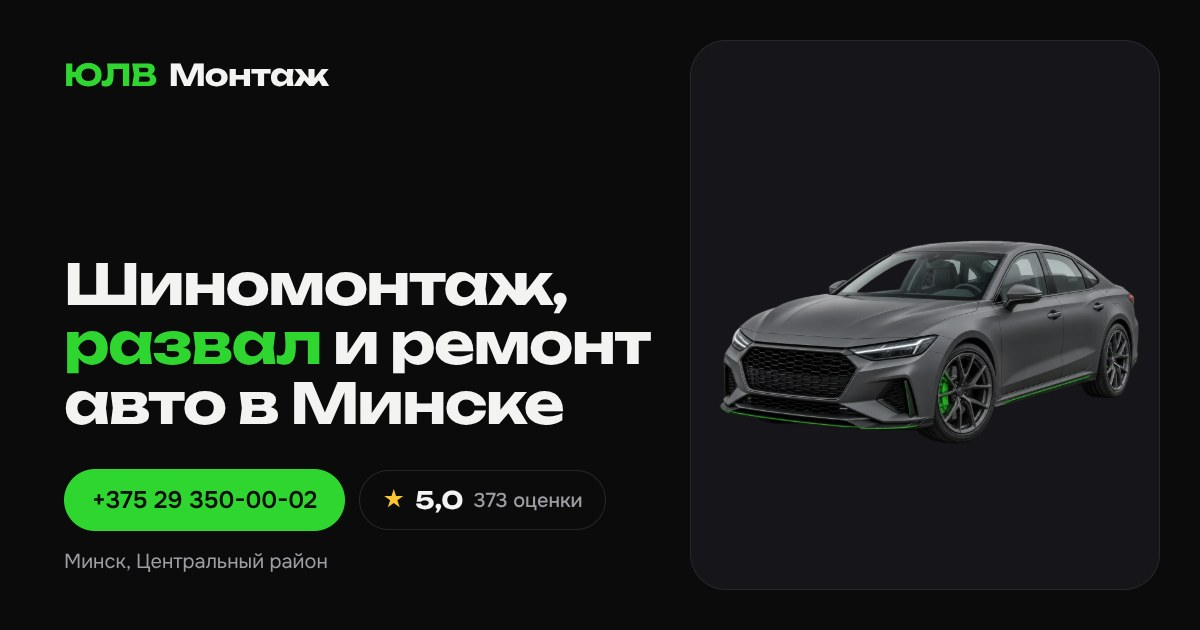
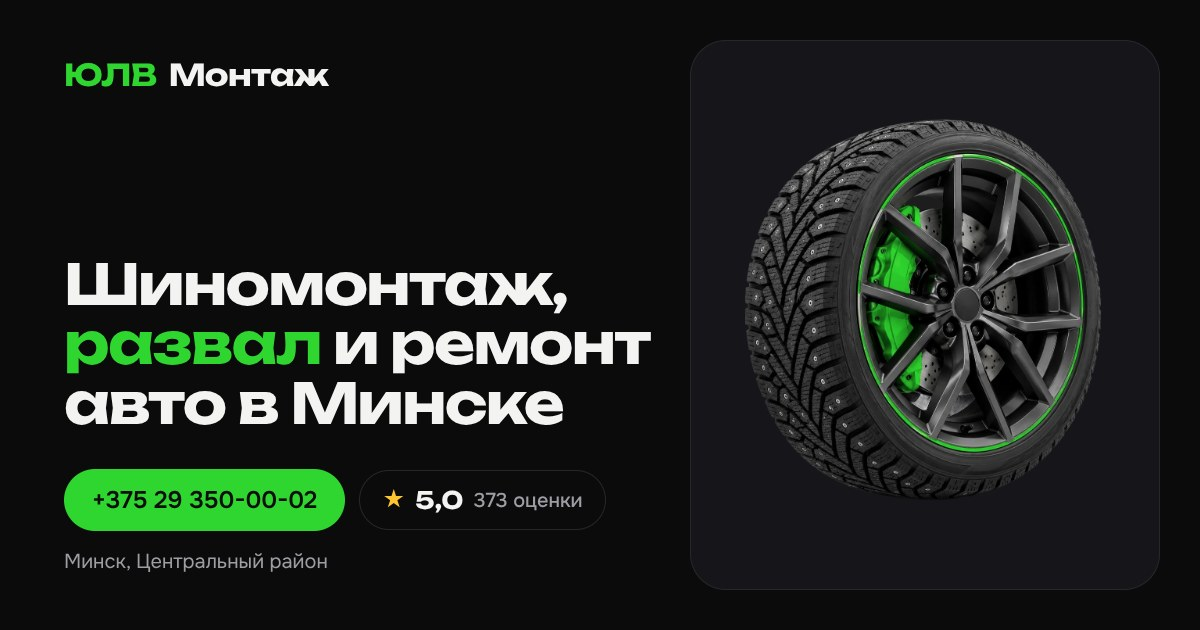
ЮЛВМонтаж: колесо на первом экране; hero-wheel в библиотеку
Claude-Session: https://claude.ai/code/session_01K6Qwn87xXGdXrTQB6SY52W

Changed region(s): [[0.5858, 0.181, 0.9558, 0.7841]]

diff --git a/tablica/index.html b/tablica/index.html
@@ -36,17 +36,17 @@ dl{display:flex;flex-wrap:wrap;gap:6px 18px;font-size:13px}dt{color:var(--mut);f
 .nt{font-size:13px;color:var(--mut);border-top:1px dashed var(--line);padding-top:10px}
 @media(max-width:760px){.kpi{grid-template-columns:repeat(2,1fr)}.grid{grid-template-columns:1fr}h1{font-size:26px}}
 </style></head><body><div class="w">
-<div class="top"><div><h1>Мои клиенты</h1><p>Сайты для автосервисов · обновлено 24 октября в 23:43</p></div></div>
+<div class="top"><div><h1>Мои клиенты</h1><p>Сайты для автосервисов · обновлено 24 октября в 23:46</p></div></div>
 <div class="kpi">
-<div class="k"><b>11</b><span>всего сервисов</span></div>
-<div class="k"><b>10</b><span>демо ждут звонка</span></div>
+<div class="k"><b>10</b><span>всего сервисов</span></div>
+<div class="k"><b>9</b><span>демо ждут звонка</span></div>
 <div class="k"><b>0</b><span>в переговорах</span></div>
 <div class="k g"><b>0</b><span>оплатили</span></div>
 </div>
 <h2>Что сделать</h2>
-<ul class="todo"><li data-s="кандидат" data-last="" data-created="2026-10-23"><span class="dot" style="background:#8a8a8a"></span><div><b>Sto Pirali</b> <span class="st st-0">кандидат</span><p>мало данных — нет цен, услуг, часов; 4 слабых фото, 26 отзывов</p></div><em class="age"></em></li><li data-s="демо готово" data-last="" data-created="2026-10-23"><span class="dot" style="background:#1E6BFF"></span><div><b>Автозвено</b> <span class="st st-1">демо готово</span><p>позвонить; попросить фото до/после</p></div><em class="age"></em></li><li data-s="демо готово" data-last="" data-created="2026-10-23"><span class="dot" style="background:#FFC400"></span><div><b>АвтоСервисМастер</b> <span class="st st-1">демо готово</span><p>позвонить; попросить фото и цены</p></div><em class="age"></em></li><li data-s="демо готово" data-last="" data-created="2026-10-24"><span class="dot" style="background:#1F55D6"></span><div><b>АльфаМагнит</b> <span class="st st-1">демо готово</span><p>позвонить; спросить ссылку на Telegram и Instagram, логотип, цены</p></div><em class="age"></em></li><li data-s="демо готово" data-last="" data-created="2026-10-24"><span class="dot" style="background:#c6f135"></span><div><b>Ганс Моторс</b> <span class="st st-1">демо готово</span><p>позвонить; уточнить часы работы</p></div><em class="age"></em></li><li data-s="демо готово" data-last="" data-created="2026-10-24"><span class="dot" style="background:#FF7A00"></span><div><b>Мой Механик</b> <span class="st st-1">демо готово</span><p>позвонить; уточнить цвет логотипа, гарантию, фото, отзывы с Яндекса</p></div><em class="age"></em></li><li data-s="демо готово" data-last="" data-created="2026-10-24"><span class="dot" style="background:#F5C800"></span><div><b>СТО на Старовиленской</b> <span class="st st-1">демо готово</span><p>позвонить; уточнить название сервиса, Viber/Telegram, оплату картой, гарантию</p></div><em class="age"></em></li><li data-s="демо готово" data-last="" data-created="2026-10-24"><span class="dot" style="background:#E10600"></span><div><b>СТО-777</b> <span class="st st-1">демо готово</span><p>позвонить; спросить часы работы, фото (9 в карточке), цены на шиномонтаж и диагностику, условия гарантии</p></div><em class="age"></em></li><li data-s="демо готово" data-last="" data-created="2026-10-23"><span class="dot" style="background:#E10600"></span><div><b>ЦТС-СЕРВИС</b> <span class="st st-1">демо готово</span><p>позвонить; спросить ссылку на карточку, мессенджеры, гарантию, фото</p></div><em class="age"></em></li><li data-s="демо готово" data-last="" data-created="2026-10-24"><span class="dot" style="background:#2FD62F"></span><div><b>ЮЛВМонтаж</b> <span class="st st-1">демо готово</span><p>позвонить; уточнить адрес (улица, дом), цены, фото, мессенджеры, гарантию</p></div><em class="age"></em></li><li data-s="демо готово" data-last="" data-created="2026-10-23"><span class="dot" style="background:#E10600"></span><div><b>GTgarage</b> <span class="st st-1">демо готово</span><p>позвонить; спросить мессенджеры и логотип</p></div><em class="age"></em></li></ul>
+<ul class="todo"><li data-s="кандидат" data-last="" data-created="2026-10-23"><span class="dot" style="background:#8a8a8a"></span><div><b>Sto Pirali</b> <span class="st st-0">кандидат</span><p>мало данных — нет цен, услуг, часов; 4 слабых фото, 26 отзывов</p></div><em class="age"></em></li><li data-s="демо готово" data-last="" data-created="2026-10-23"><span class="dot" style="background:#1E6BFF"></span><div><b>Автозвено</b> <span class="st st-1">демо готово</span><p>позвонить; попросить фото до/после</p></div><em class="age"></em></li><li data-s="демо готово" data-last="" data-created="2026-10-23"><span class="dot" style="background:#FFC400"></span><div><b>АвтоСервисМастер</b> <span class="st st-1">демо готово</span><p>позвонить; попросить фото и цены</p></div><em class="age"></em></li><li data-s="демо готово" data-last="" data-created="2026-10-24"><span class="dot" style="background:#1F55D6"></span><div><b>АльфаМагнит</b> <span class="st st-1">демо готово</span><p>позвонить; спросить ссылку на Telegram и Instagram, логотип, цены</p></div><em class="age"></em></li><li data-s="демо готово" data-last="" data-created="2026-10-24"><span class="dot" style="background:#c6f135"></span><div><b>Ганс Моторс</b> <span class="st st-1">демо готово</span><p>позвонить; уточнить часы работы</p></div><em class="age"></em></li><li data-s="демо готово" data-last="" data-created="2026-10-24"><span class="dot" style="background:#FF7A00"></span><div><b>Мой Механик</b> <span class="st st-1">демо готово</span><p>позвонить; уточнить цвет логотипа, гарантию, фото, отзывы с Яндекса</p></div><em class="age"></em></li><li data-s="демо готово" data-last="" data-created="2026-10-24"><span class="dot" style="background:#F5C800"></span><div><b>СТО на Старовиленской</b> <span class="st st-1">демо готово</span><p>позвонить; уточнить название сервиса, Viber/Telegram, оплату картой, гарантию</p></div><em class="age"></em></li><li data-s="демо готово" data-last="" data-created="2026-10-23"><span class="dot" style="background:#E10600"></span><div><b>ЦТС-СЕРВИС</b> <span class="st st-1">демо готово</span><p>позвонить; спросить ссылку на карточку, мессенджеры, гарантию, фото</p></div><em class="age"></em></li><li data-s="демо готово" data-last="" data-created="2026-10-24"><span class="dot" style="background:#2FD62F"></span><div><b>ЮЛВМонтаж</b> <span class="st st-1">демо готово</span><p>позвонить; уточнить адрес (улица, дом), цены, фото, мессенджеры, гарантию</p></div><em class="age"></em></li><li data-s="демо готово" data-last="" data-created="2026-10-23"><span class="dot" style="background:#E10600"></span><div><b>GTgarage</b> <span class="st st-1">демо готово</span><p>позвонить; спросить мессенджеры и логотип</p></div><em class="age"></em></li></ul>
 <h2>Этапы</h2>
-<div class="fun"><button type="button" class="fs" data-f="кандидат"><i>1</i><span>кандидат</span><b>1</b></button><button type="button" class="fs" data-f="демо готово"><i>2</i><span>демо готово</span><b>10</b></button><button type="button" class="fs z" data-f="позвонил"><i>3</i><span>позвонил</span><b>0</b></button><button type="button" class="fs z" data-f="скинул демо"><i>4</i><span>скинул демо</span><b>0</b></button><button type="button" class="fs z" data-f="думает"><i>5</i><span>думает</span><b>0</b></button><button type="button" class="fs z" data-f="правки"><i>6</i><span>правки</span><b>0</b></button><button type="button" class="fs z" data-f="оплатил"><i>7</i><span>оплатил</span><b>0</b></button><button type="button" class="fs z" data-f="запущен"><i>8</i><span>запущен</span><b>0</b></button></div><button type="button" class="all" hidden>Показать всех</button>
+<div class="fun"><button type="button" class="fs" data-f="кандидат"><i>1</i><span>кандидат</span><b>1</b></button><button type="button" class="fs" data-f="демо готово"><i>2</i><span>демо готово</span><b>9</b></button><button type="button" class="fs z" data-f="позвонил"><i>3</i><span>позвонил</span><b>0</b></button><button type="button" class="fs z" data-f="скинул демо"><i>4</i><span>скинул демо</span><b>0</b></button><button type="button" class="fs z" data-f="думает"><i>5</i><span>думает</span><b>0</b></button><button type="button" class="fs z" data-f="правки"><i>6</i><span>правки</span><b>0</b></button><button type="button" class="fs z" data-f="оплатил"><i>7</i><span>оплатил</span><b>0</b></button><button type="button" class="fs z" data-f="запущен"><i>8</i><span>запущен</span><b>0</b></button></div><button type="button" class="all" hidden>Показать всех</button>
 <h2 id="ct">Все клиенты</h2>
 <div class="grid">
 <article class="c" data-s="кандидат" style="--a:#8a8a8a">
@@ -111,15 +111,6 @@ dl{display:flex;flex-wrap:wrap;gap:6px 18px;font-size:13px}dt{color:var(--mut);f
   <div class="ln"><a href="https://d1trepes.github.io/sites/sto-starovilenskaya/" target="_blank" rel="noopener">Открыть демо ↗</a></div>
   <dl><div><dt>Создан</dt><dd>2026-10-24</dd></div><div><dt>Последний контакт</dt><dd data-d="">ещё не было</dd></div></dl>
   <p class="nt">своего названия в карточке нет — на сайте «СТО на Старовиленской»</p>
-</article>
-<article class="c" data-s="демо готово" style="--a:#E10600">
-  <header><span class="dot"></span><div><h3>СТО-777</h3><p>Долгиновский тракт, 45 · ★ 4,7 · 54 отз.</p></div><span class="st st-1">демо готово</span></header>
-  <div class="bar"><span class="on" title="кандидат"></span><span class="on" title="демо готово"></span><span class="" title="позвонил"></span><span class="" title="скинул демо"></span><span class="" title="думает"></span><span class="" title="правки"></span><span class="" title="оплатил"></span><span class="" title="запущен"></span></div>
-  <div class="nx"><small>Следующий шаг</small>позвонить; спросить часы работы, фото (9 в карточке), цены на шиномонтаж и диагностику, условия гарантии</div>
-  <div class="phs"><a class="ph" href="tel:+375296241200"><span>+375 29 624-12-00</span><small>A1</small></a></div>
-  <div class="ln"><a href="https://d1trepes.github.io/sites/sto-777/" target="_blank" rel="noopener">Открыть демо ↗</a></div>
-  <dl><div><dt>Создан</dt><dd>2026-10-24</dd></div><div><dt>Последний контакт</dt><dd data-d="">ещё не было</dd></div></dl>
-  <p class="nt">часов и цен нет — блоков цен и часов нет; фото не присланы</p>
 </article>
 <article class="c" data-s="демо готово" style="--a:#E10600">
   <header><span class="dot"></span><div><h3>ЦТС-СЕРВИС</h3><p>ул. Тимирязева, 9/6 · ★ 4,8 · 16 отз.</p></div><span class="st st-1">демо готово</span></header>

diff --git a/ulvmontazh/index.html b/ulvmontazh/index.html
@@ -14,11 +14,11 @@
 <meta property="og:url" content="https://d1trepes.github.io/sites/ulvmontazh/">
 <meta property="og:title" content="ЮЛВМонтаж — шиномонтаж и автосервис в Минске">
 <meta property="og:description" content="Шиномонтаж, развал-схождение, ремонт авто. Рейтинг 5,0 на Яндекс Картах.">
-<meta property="og:image" content="https://d1trepes.github.io/sites/ulvmontazh/img/og.jpg?v=0f245401">
+<meta property="og:image" content="https://d1trepes.github.io/sites/ulvmontazh/img/og.jpg?v=157f1f2f">
 <meta property="og:image:width" content="1200">
 <meta property="og:image:height" content="630">
 <meta name="twitter:card" content="summary_large_image">
-<link rel="preload" as="image" href="img/hero-sedan.webp" fetchpriority="high">
+<link rel="preload" as="image" href="img/hero-wheel.webp" fetchpriority="high">
 <link rel="preconnect" href="https://fonts.googleapis.com">
 <link rel="preconnect" href="https://fonts.gstatic.com" crossorigin>
 <link href="https://fonts.googleapis.com/css2?family=Onest:wght@400;500;600&family=Unbounded:wght@500;700&display=swap" rel="stylesheet">
@@ -30,7 +30,7 @@
   "@type": "AutoRepair",
   "name": "ЮЛВМонтаж",
   "url": "https://d1trepes.github.io/sites/ulvmontazh/",
-  "image": "https://d1trepes.github.io/sites/ulvmontazh/img/og.jpg?v=0f245401",
+  "image": "https://d1trepes.github.io/sites/ulvmontazh/img/og.jpg?v=157f1f2f",
   "telephone": "+375293500002",
   "address": {
     "@type": "PostalAddress",
@@ -96,7 +96,7 @@
       <div class="now rv" style="--d:0.25s" data-schedule='[{&quot;d&quot;:[1,2,3,4,5],&quot;from&quot;:9,&quot;to&quot;:20},{&quot;d&quot;:[6,7],&quot;from&quot;:9,&quot;to&quot;:17}]' hidden><i></i><span></span></div>
       <div class="trust rv" style="--d:0.3s"><b>5,0</b><div><span class="stars" aria-label="5 из 5"><svg viewBox="0 0 20 20" fill="currentColor" aria-hidden="true"><path d="M10 1.5l2.6 5.5 6 .7-4.5 4.1 1.2 5.9L10 14.8l-5.3 2.9 1.2-5.9L1.4 7.7l6-.7z"/></svg><svg viewBox="0 0 20 20" fill="currentColor" aria-hidden="true"><path d="M10 1.5l2.6 5.5 6 .7-4.5 4.1 1.2 5.9L10 14.8l-5.3 2.9 1.2-5.9L1.4 7.7l6-.7z"/></svg><svg viewBox="0 0 20 20" fill="currentColor" aria-hidden="true"><path d="M10 1.5l2.6 5.5 6 .7-4.5 4.1 1.2 5.9L10 14.8l-5.3 2.9 1.2-5.9L1.4 7.7l6-.7z"/></svg><svg viewBox="0 0 20 20" fill="currentColor" aria-hidden="true"><path d="M10 1.5l2.6 5.5 6 .7-4.5 4.1 1.2 5.9L10 14.8l-5.3 2.9 1.2-5.9L1.4 7.7l6-.7z"/></svg><svg viewBox="0 0 20 20" fill="currentColor" aria-hidden="true"><path d="M10 1.5l2.6 5.5 6 .7-4.5 4.1 1.2 5.9L10 14.8l-5.3 2.9 1.2-5.9L1.4 7.7l6-.7z"/></svg></span><span style="display:block;margin-top:4px">160 отзывов · 373 оценки на Яндекс Картах</span></div></div>
     </div>
-    <div class="car w rv" style="--d:0.15s"><img src="img/hero-sedan.webp" alt="Автомобиль — шиномонтаж и ремонт авто в ЮЛВМонтаж, Минск" fetchpriority="high"></div>
+    <div class="car m rv" style="--d:0.15s"><img src="img/hero-wheel.webp" alt="Колесо с зимней шиной — шиномонтаж ЮЛВМонтаж, Минск" fetchpriority="high"></div>
   </div>
 </section>
 <section id="blok" class="notitle" style="padding-top:0"><div class="wrap">

diff --git a/blank/КАРТИНКИ.md b/blank/КАРТИНКИ.md
@@ -15,6 +15,7 @@
 | fact-hatch.webp | хэтчбек | «с какими авто» |
 | fact-bike.webp | мотоцикл | мототехника |
 | fact-card.webp | банковская карта | оплата |
+| hero-wheel.webp | колесо с шипованной шиной, салатовый суппорт и полоса на ободе | первый экран (шиномонтаж) |
 | cta-tools.webp | ящик с инструментами | финальный блок «Записаться» |
 
 ## Уже в цвете — не перекрашиваются (только для такого же цвета сайта)

diff --git a/ulvmontazh/notes.md b/ulvmontazh/notes.md
@@ -13,3 +13,6 @@
 - Гарантия: на что и какой срок. Что значит «Официальный автосервис».
 - Оплата: наличные / карта.
 - Логотип в хорошем качестве.
+
+## 2026-10-24 (позже)
+- Первый экран: своё колесо (hero-wheel.webp, сгенерировал Иван), копия салатовая — в blank/img/.
